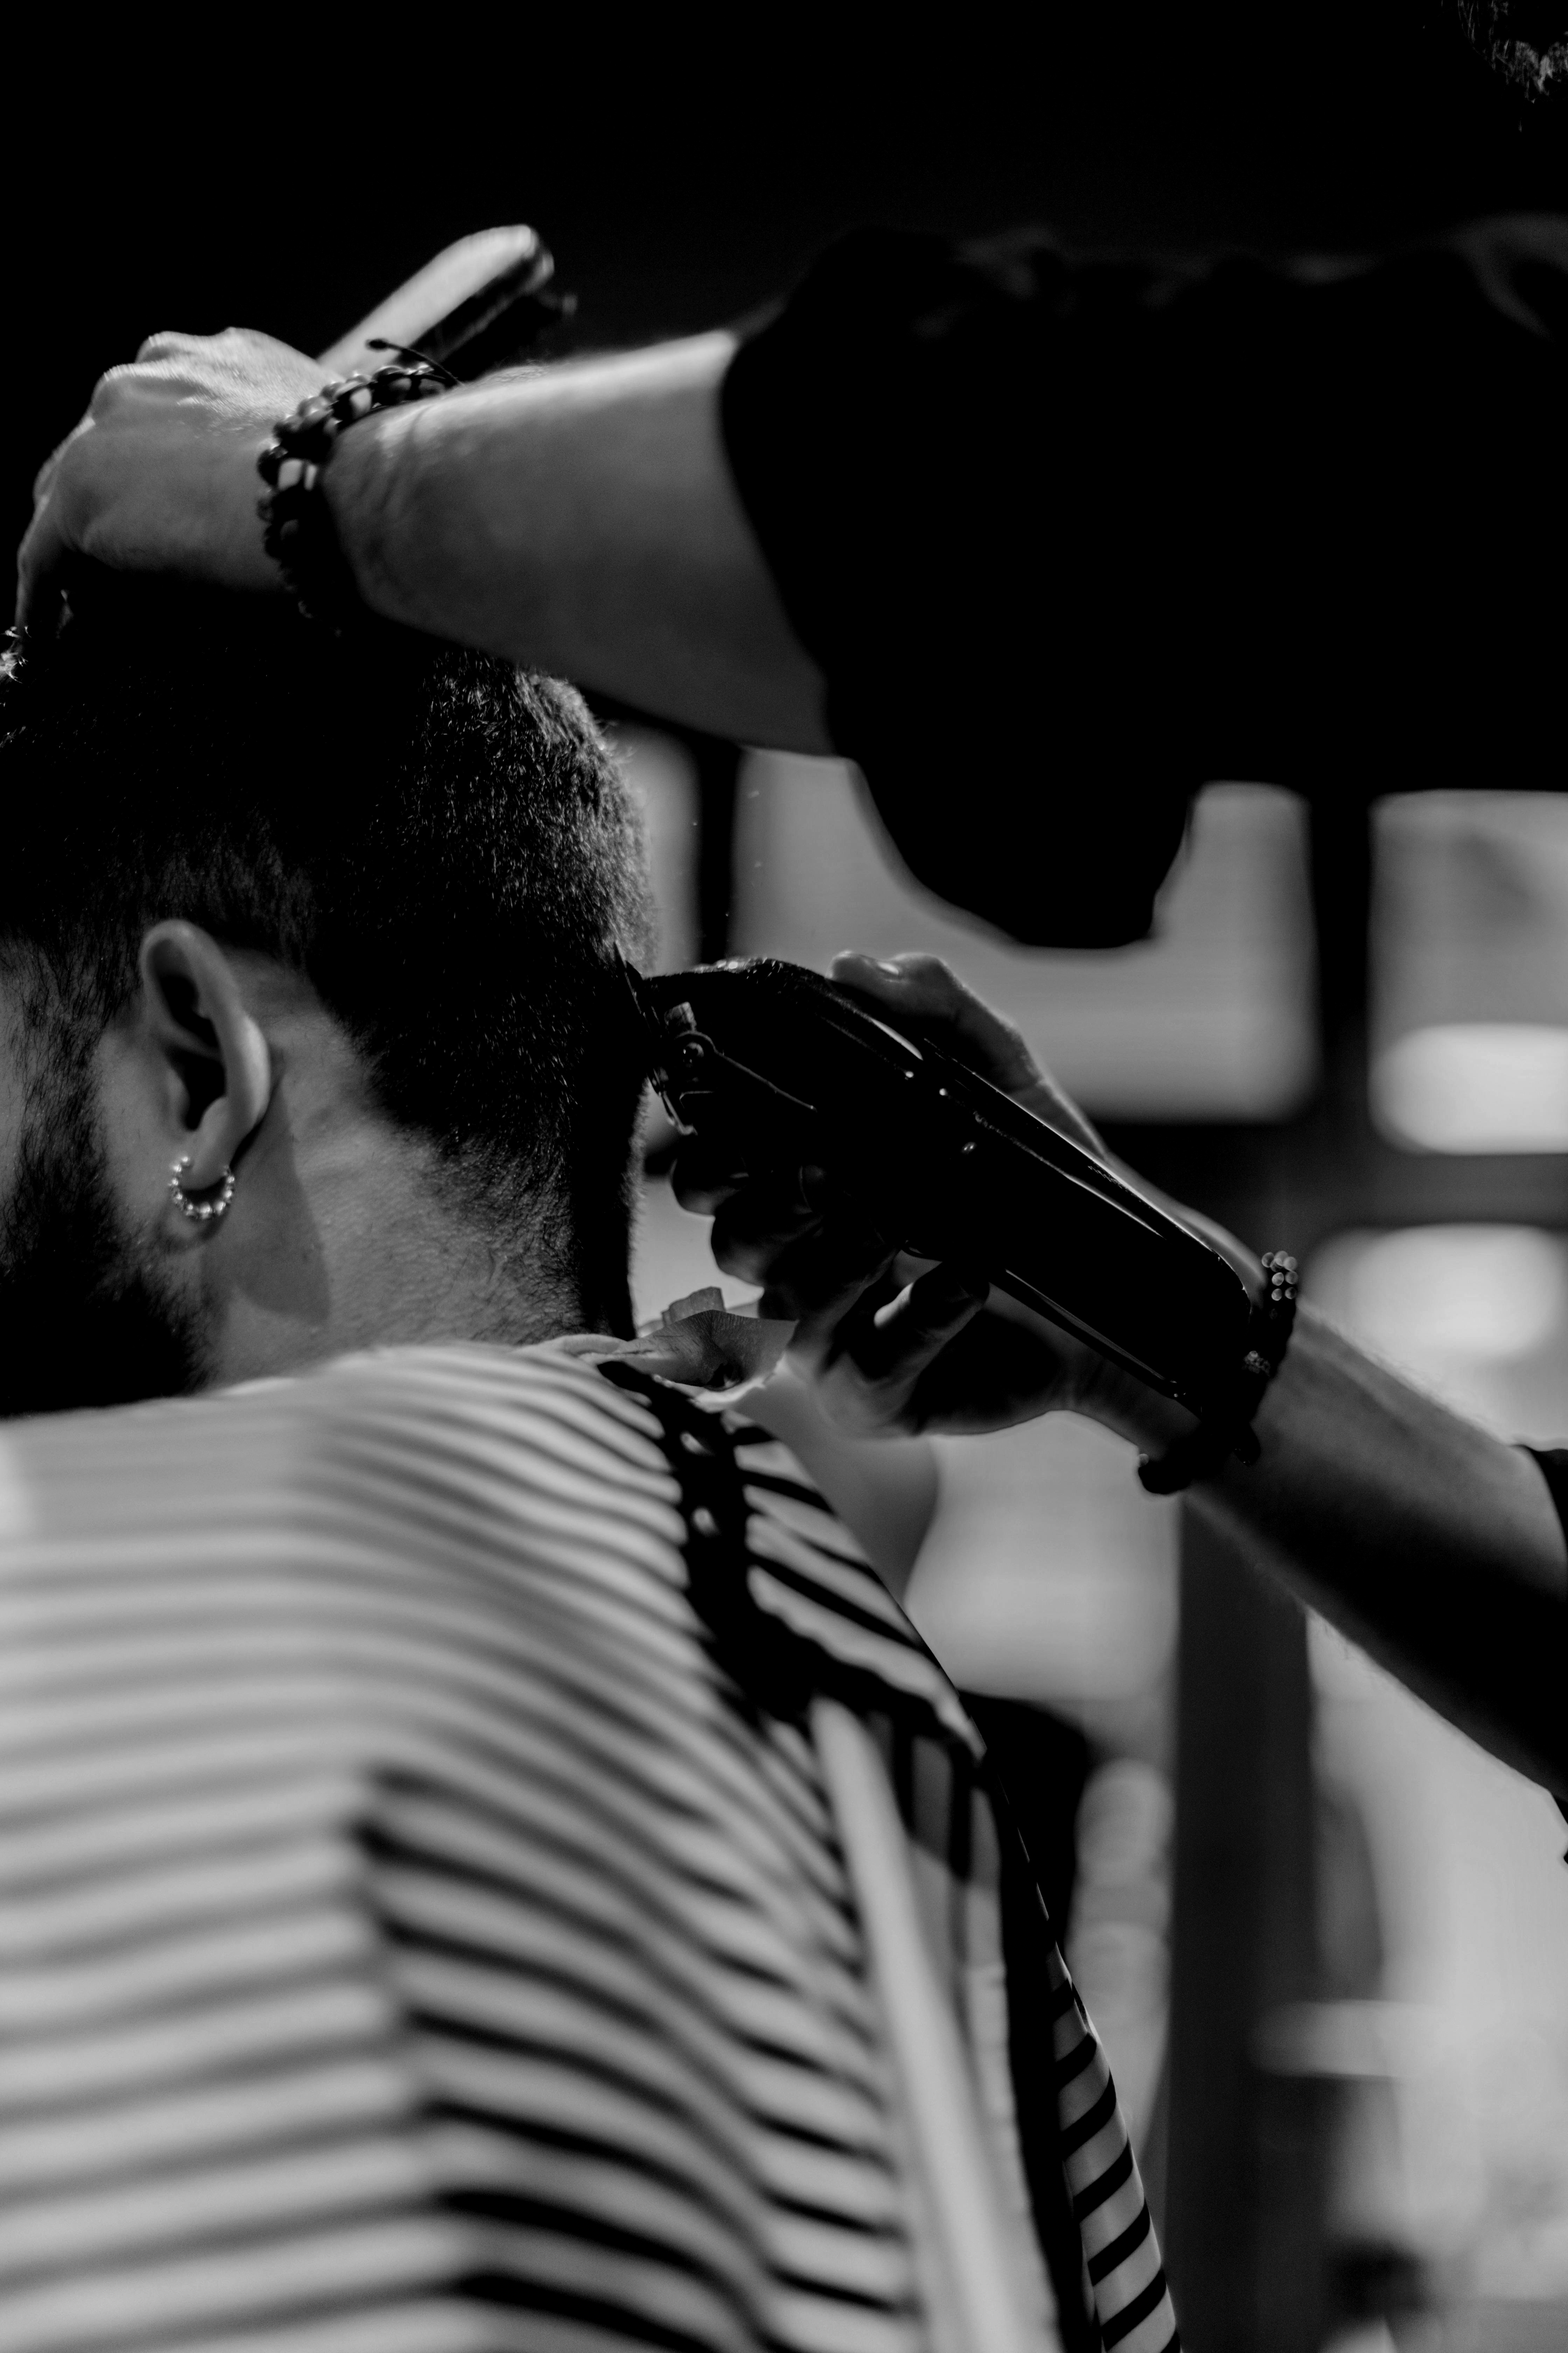
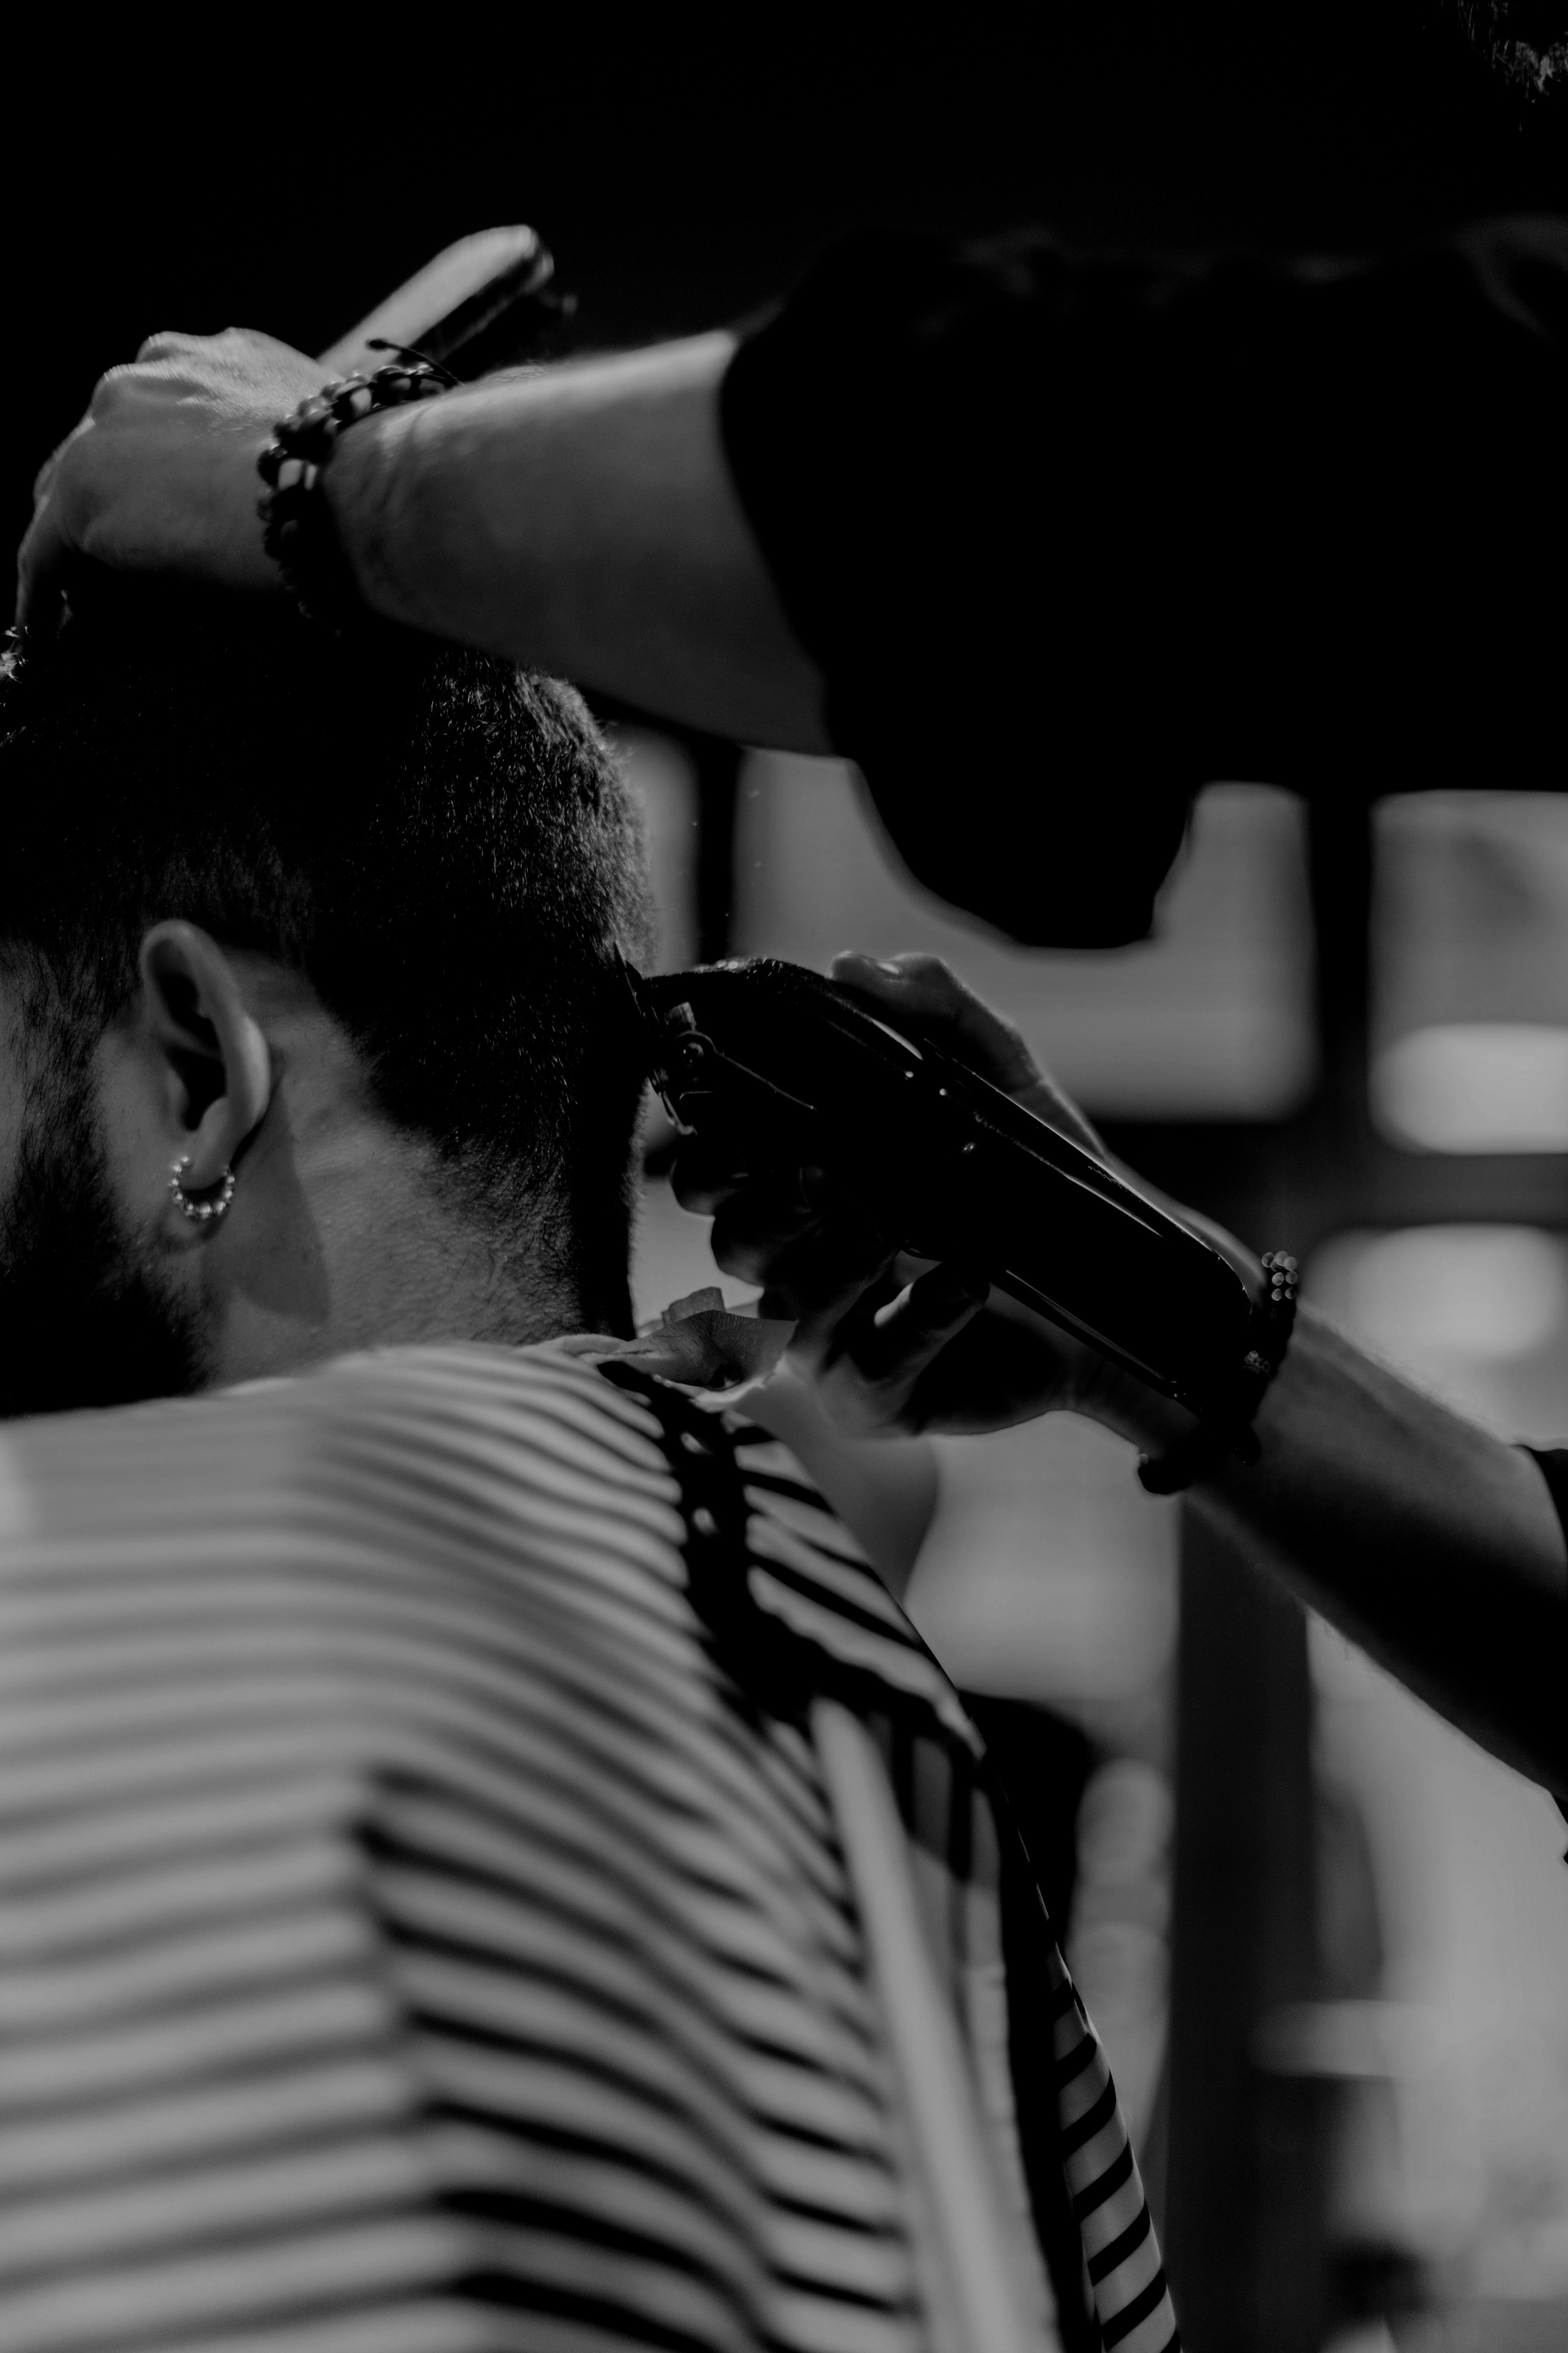
feat: cria seção about da barbearia

diff --git a/src/components/main/MainComponent.jsx b/src/components/main/MainComponent.jsx
@@ -1,0 +1,84 @@
+import './MainComponent.css';
+import { Scissors, Brush, SprayCan } from "lucide-react";
+
+const MainComponent = () => {
+    return (
+        <main className='main-component-container'>
+            <div className="about-container">
+
+                <div className="main-component-container-left">
+                    <span className="subtitle">
+                        SOBRE A BARBEARIA
+                    </span>
+
+                    <h1>
+                        UM TOQUE MODERNO
+                        <br />
+                        NOS CORTES CLÁSSICOS
+                    </h1>
+
+                    <p className="description">
+                        Combinamos tradição, estilo e técnicas modernas para oferecer
+                        uma experiência única em cada atendimento. Nosso objetivo é
+                        valorizar sua personalidade através de cortes precisos,
+                        acabamento impecável e um ambiente pensado para o seu conforto.
+                    </p>
+
+                    <div className="features">
+
+                        <div className="feature">
+                            <Scissors size={34} />
+
+                            <div>
+                                <h3>PROFISSIONAIS QUALIFICADOS</h3>
+
+                                <p>
+                                    Barbeiros experientes e preparados para entregar cortes
+                                    modernos, degradês precisos e um atendimento de qualidade.
+                                </p>
+                            </div>
+                        </div>
+
+                        <div className="feature">
+                            <Brush size={34} />
+
+                            <div>
+                                <h3>EXPERIÊNCIA PERSONALIZADA</h3>
+
+                                <p>
+                                    Cada cliente recebe um atendimento exclusivo para encontrar
+                                    o estilo que melhor combina com sua personalidade.
+                                </p>
+                            </div>
+                        </div>
+
+                        <div className="feature">
+                            <SprayCan size={34} />
+                            <div>
+                                <h3>PRODUTOS DE ALTA QUALIDADE</h3>
+
+                                <p>
+                                    Utilizamos produtos profissionais selecionados para garantir
+                                    o melhor cuidado com cabelo e barba.
+                                </p>
+                            </div>
+                        </div>
+
+                    </div>
+
+                    <button className="about-btn">
+                        MAIS SOBRE NÓS
+                    </button>
+                </div>
+
+                <div className="main-component-container-right">
+                    {/* imagem */}
+                </div>
+
+            </div>
+        </main>
+    );
+};
+
+export default MainComponent;
+

diff --git a/src/components/body/banner/bannerComponent.css b/src/components/body/banner/bannerComponent.css
@@ -17,12 +17,22 @@
     position: relative;
     z-index: 2;
     width: 100%;
-    height: 60%;
+    height: 80%;
     display: flex;
     flex-direction: column;
     justify-content: center;
     align-items: center;
     color: white;
+}
+
+.banner-content h2{
+    font-size: 65px;
+    margin: 0;
+}
+
+.banner-content p{
+    font-size: 20px;
+    margin: 0;
 }
 
 .banner {
@@ -40,6 +50,7 @@
     opacity: 0;
     transform: scale(1);
     transition: opacity 1.5s ease-in-out;
+    filter: brightness(35%);
 }
 
 .banner-image.active {
@@ -47,17 +58,9 @@
     animation: zoomEffect 6s ease-in-out forwards;
 }
 
-.overlay {
-    position: relative;
-    z-index: 2;
-    color: white;
-    text-align: center;
-    top: 50%;
-    transform: translateY(-50%);
-}
-
 .logo{
     width: 350px;
+    padding: 15px 0px;
     height: auto;
 }
 

diff --git a/src/components/header/HeaderComponent.jsx b/src/components/header/HeaderComponent.jsx
@@ -13,11 +13,12 @@ const HeaderComponent = () => {
                         <li><a href="#services">Services</a></li>
                         <li><a href="#contact">Contact</a></li>
                     </ul>
-                    <ul className="social">
-                        <li><a href="#"><i className="fab fa-facebook-f"></i></a></li>
-                        <li><a href="#"><i className="fab fa-instagram"></i></a></li>
-                    </ul>
                 </nav>
+                <ul className="social">
+                    <li><a href="#"><i className="fab fa-facebook-f"></i></a></li>
+                    <li><a href="#"><i className="fab fa-instagram"></i></a></li>
+                </ul>
+
 
             </div>
         </header>

diff --git a/src/components/main/MainComponent.css b/src/components/main/MainComponent.css
@@ -1,0 +1,35 @@
+.main-component-container{
+    width: 100%;
+    color: white;
+    padding-top: 60px;
+}
+
+.about-section {
+  background: #050505;
+  padding: 100px 8%;
+}
+
+.about-container {
+  display: grid;
+  grid-template-columns: 1fr 1fr;
+  gap: 20px;
+  align-items: center;
+  justify-items: center;
+}
+
+.main-component-container-left{
+    height: 110vb;
+    width: 80%;
+}
+
+.main-component-container-right{
+    height: 110vb;
+    border: 0.1px solid white;
+    width: 80%;
+}
+
+@media (max-width: 1000px) {
+  .about-container {
+    grid-template-columns: 1fr;
+  }
+}

diff --git a/src/components/header/HeaderStyle.css b/src/components/header/HeaderStyle.css
@@ -11,6 +11,7 @@ header{
   justify-content: center;
   align-items: center;
   width: 100%;
+  gap: 35px;
 }
 
 .header-container ul {
@@ -18,6 +19,7 @@ header{
   justify-content: center;
   align-items: center;
   height: 100%;
+
 }
 
 .header-container nav{
@@ -53,8 +55,8 @@ header{
   display: flex;
   align-items: center;
   justify-content: center;
-  width: 8px;
-  height: 35px;
+  width: 1px;
+  height: 30px;
   border: 1px solid white;
   border-radius: 50%;
   color: white;

diff --git a/src/components/body/banner/BannerComponent.jsx b/src/components/body/banner/BannerComponent.jsx
@@ -30,10 +30,10 @@ const BannerComponent = () => {
         />
       ))}
 
-      <div className="overlay">
+      <div className="overlay banner-content">
         <img src={logo} alt="Logo" className="logo" />
-        <h1>Sua Landing Page</h1>
-        <p>Texto do banner aqui</p>
+        <h2>YOUR STYLE STARTS HERE</h2>
+        <p>Ambiente exclusivo, profissionais experientes e cortes que combinam personalidade e autenticidade.</p>
       </div>
     </section>
   );

diff --git a/src/App.jsx b/src/App.jsx
@@ -1,6 +1,7 @@
 import './App.css'
 import BannerComponent from './components/body/banner/BannerComponent';
 import HeaderComponent from './components/header/HeaderComponent';
+import MainComponent from './components/main/MainComponent';
 
 
 function App() {
@@ -9,6 +10,7 @@ function App() {
     <>
       <HeaderComponent />  
       <BannerComponent />
+      <MainComponent/>
     </>
   )
 }

diff --git a/src/App.css b/src/App.css
@@ -3,6 +3,7 @@ body{
     padding: 0;
     box-sizing: border-box;
     list-style-type: none;
+    background-color: black;
 }
 
 a{
